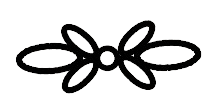
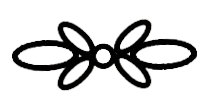
quicksave before adding the other pages

diff --git a/index.html b/index.html
@@ -5,18 +5,18 @@
     <head>
         <title> Katelyn Nguyen Personal Website </title> <!--this is what will be seen in the chrome tab's text-->
         <link rel="stylesheet" href="style_home.css">
-        <link rel="icon" type="image" href="Images/in-line-ornament_black_lines-removebg-preview.png">
+        <link rel="icon" type="image" class="website_icon" href="Images/in-line-ornament_black_lines-removebg-preview.png">
     </head>
     <header class="top_navbar_header">
         <nav class="top_navbar">
             <a href="index.html">Home</a>
-            <img class="top_navbar_dividers">
-            <a href="about.html">Projects</a>
-            <img class="top_navbar_dividers">
-            <a href="about.html">Qualifications</a>
-            <img class="top_navbar_dividers">
-            <a href="about.html">Service</a>
-            <img class="top_navbar_dividers">
+            <img class="navbar_dividers">
+            <a href="projects.html">Projects</a>
+            <img class="navbar_dividers">
+            <a href="qualifications.html">Qualifications</a>
+            <img class="navbar_dividers">
+            <a href="service.html">Service</a>
+            <img class="navbar_dividers">
             <a href="contact.html">Contact</a>
         </nav>
     </header>
@@ -30,7 +30,7 @@
                     <span class="slider round"></span>
                 </label>
             </div>
-            <img>
+            <img class="navbar_dividers">
             <!-- 
             <div id="middle_footer">
                 <a>Contact Information</a>
@@ -39,6 +39,9 @@
 
             <div id="right_footer">
                 <a>Share This Site!</a>
+                <img class="QR_code">
+                <a>Click to Copy Link</a>
+                <i class="copy_icon"></i>
                 <!-- <img> -->
             </div>
         <!-- </footer> -->
@@ -72,27 +75,47 @@
                 </p>
                 <p>
                     My name is Katelyn Nguyen. 
-                    I am a proud member of the fighting Texas Aggie class of 2025! 
+                    I am a proud member of the fighting <a target="_blank" href="https://www.tamu.edu/index.html">Texas Aggie</a> class of 2025! 
                     I am a computer engineering major pursuing minors in mathematics and cybersecurity.
                     Outside the classroom, I am involved in several organizations, including HKN-IEEE honor society, Vietnamese Student Association, Society of Asian Scientists and Engineers, and Aggie Women in Computer Science.
+                    I also love spending my free time dancing, playing Minecraft, and solving nonogram puzzles.
                 </p>
             </div>
             
+            <div class="quick_facts">
+                <h1>Quick Facts</h1>
+                <div class="quick_facts_column">
+                    <div class="quick_facts_left">
+                        <p>Texas A&M Univerisity</p>
+                        <p>College Station, Texas</p>
+                    </div>
+                    <div class="quick_facts_middle">
+                        <p>GPA: 3.865</p>
+                        <p>Graduation: May 2025</p>
+                    </div>
+                    <div class="quick_facts_right">
+                        <p>Major: BS Computer Engineering</p>
+                        <p>Minors: Mathematics, Cybersecurity</p>
+                    </div>
+                </div>
+            </div>
+
             <div class="why_comp_engr">
                 <h1>
                     Why Computer Engineering?
                 </h1>
         
                 <p>
-                    I decided to pursue a bachelor's degree in Computer Engineering because of the fascination with the inner workings of electronic devices my dad helped foster within me. 
+                    I decided to pursue a <a target="_blank" href="https://catalog.tamu.edu/undergraduate/engineering/electrical-computer/computer-engineering-bs/#programrequirementstext">Bachelor's degree in Computer Engineering</a> because of the fascination with the inner workings of electronic devices my dad helped foster within me. 
                     As a kid, I got to spend some of my dad’s extra vacation days messing around with junk from all over the house. 
-                    I loved dismantling old toys and electronics to hands-on experience with their components as well as learning how they functioned. 
-                    I was especially intrigued by the complexity and abstractness between hardware and code that powered these devices and I hope to continue to deepen my understanding by pursuing this field.
+                    I loved dismantling old toys and electronics to gain hands-on experience with their components as well as learn how they functioned. 
+                    I was especially intrigued by the complexity and abstractness that exists between hardware and code that powered these devices.
+                    I hope this craving to learn more about this field continues and I hope to deepen my understanding by completing a degree in this field.
                 </p>
                 <p>
-                    Before my junior year of high school, I had no idea there was a major that combined both the hardware and software aspects of technology I had grown fond of. 
-                    Once I learned that CPEN perfectly aligned with my interests, I’ve been very passionate about this degree. 
-                    This major allows me to merge my passion for technology with my desire to create and innovate. 
+                    Before my junior year of high school, I had no idea there was a major that combined both the hardware and software aspects of technology I had grown so fond of. 
+                    Once I learned that Computer Engineering perfectly aligned with my interests, I’ve been very passionate about this degree. 
+                    This major allows me to merge my fondness for technology with my desire to create and innovate. 
                     One day, I hope to work with a tech company and play a role in the creation and testing of devices like laptops to contribute to the constantly evolving field.
                 </p>
             </div>
@@ -102,10 +125,14 @@
                     My Career Goals
                 </h1>
                 <p>
-        
+                    With technology growing rapidly, I aspire to utilize my education and skills to become a key component in the industry.
+                    In the immediate future, my objective is to secure summer internships that will afford me genuine, hands-on technical experience. This is not solely about acquiring skills, but also an opportunity for self-discovery. I hope to truly identify my strengths, discern optimal work environments, and immerse myself in diverse cultures and cityscapes. 
+                    Looking ahead, my overarching goal is to achieve success in any reputable company. I aspire to be proud of the work I do and find joy in contributing to meaningful and impactful projects.
+                </p>
+                <p>
+                    For this upcoming summer specificially, my goal is to obtain a full-time internship in areas relating to either software or hardware.
                 </p>
             </div>
-            
         </body>
         <div class="eiffel_foreground">
             <img class="eiffel_image">

diff --git a/contact.html b/contact.html
@@ -3,35 +3,18 @@
     <header class="top_navbar_header">
         <nav class="top_navbar">
             <a href="index.html">Home</a>
-            <img class="top_navbar_dividers">
-            <a href="about.html">Projects</a>
-            <img class="top_navbar_dividers">
-            <a href="about.html">Qualifications</a>
-            <img class="top_navbar_dividers">
-            <a href="about.html">Service</a>
-            <img class="top_navbar_dividers">
+            <img class="navbar_dividers">
+            <a href="projects.html">Projects</a>
+            <img class="navbar_dividers">
+            <a href="qualifications.html">Qualifications</a>
+            <img class="navbar_dividers">
+            <a href="service.html">Service</a>
+            <img class="navbar_dividers">
             <a href="contact.html">Contact</a>
         </nav>
     </header>
     
-    <header class="bottom_navbar_header">
-        <!-- <footer class="bottom_navbar"> -->
-            <div id="left_footer">
-                <a>Theme Selector</a>
-                <img src="Images/title_ornament_symmetric.png">
-            </div>
-
-            <div id="middle_footer">
-                <a>Contact Information</a>
-                <img src="Images/title_ornament_symmetric.png">
-            </div>
-
-            <div id="right_footer">
-                <a>Share This Site!</a>
-                <img src="Images/title_ornament_symmetric.png">
-            </div>
-        <!-- </footer> -->
-    </header>
+    <!-- Bottom navbar go here -->
     <head>
     <meta charset="UTF-8">
     <meta name="viewport" content="width=device-width, initial-scale=1.0">
@@ -39,19 +22,33 @@
     <link rel="stylesheet" href="style_home.css">
     </head>
     <body class="contact_body">
-
-    <form class="contact_form" action="mailto:websitehost@example.com" method="post" enctype="text/plain">
-        <label class="contact_label" for="name">Your Name:</label>
-        <input class="contact_input" type="text" id="name" name="name" required>
-
-        <label class="contact_label" for="email">Your Email:</label>
-        <input class="contact_input" type="email" id="email" name="email" required>
-
-        <label class="contact_label" for="message">Your Message:</label>
-        <textarea class="contact_textarea" id="message" name="message" required></textarea>
-
-        <button class="contact_button" type="submit">Send Message</button>
-    </form>
+        <div class="contact_container">
+            <div class="column" id="social_column">
+                    <a href="https://www.facebook.com"><img src="facebook-icon.png" alt="Facebook"></a>
+                    <a href="https://www.instagram.com"><img src="instagram-icon.png" alt="Instagram"></a>
+                    <a href="https://www.linkedin.com"><img src="linkedin-icon.png" alt="LinkedIn"></a>
+                    <!-- Add more social media icons as needed -->
+                </div>
+                <div class="column" id="contact_form_column">
+                    <form class="contact_form" action="mailto:websitehost@example.com" method="post" enctype="text/plain">
+                        <label class="contact_label" for="name">Your Name:</label>
+                        <input class="contact_input" type="text" id="name" name="name" required>
+                
+                        <label class="contact_label" for="email">Your Email:</label>
+                        <input class="contact_input" type="email" id="email" name="email" required>
+                
+                        <label class="contact_label" for="message">Your Message:</label>
+                        <textarea class="contact_textarea" id="message" name="message" required></textarea>
+                
+                        <button class="contact_button" type="submit">Send Message</button>
+                    </form>
+                </div>
+                <div class="column" id="qr_code_column">
+                    <img src="qr-code.png" alt="QR Code">
+                    <p>Share this site!</p>
+                    <!-- You can generate a QR code for your website and replace "qr-code.png" -->
+                  </div>
+        </div>
 
     </body>
 </html>

diff --git a/style_home.css b/style_home.css
@@ -57,11 +57,16 @@ body {
     width: 100%;
     max-width: 100vw;
     overflow-x: hidden;
-    padding-right: 300px;
-    padding-left: 50px;
+    
 }
 
+body a {
+    color: white;
+}
 
+.website_icon {
+    transform: rotate(2deg);
+}
 
 
 
@@ -107,11 +112,12 @@ body {
     width: 100%;
 }
 
-.top_navbar_dividers {
+.navbar_dividers {
     content: url("Images/in-line-ornament.png");
-    width: 1%;
-    height: 1%;
+    width: 2%;
+    height: 2%;
     padding: 0%;
+    transform: rotate(1deg);
 }
 
 
@@ -140,6 +146,8 @@ body {
 .body_and_eiffel_foreground {
     display: flex;
     flex-direction: column;
+    padding-right: 400px;
+    padding-left: 50px;
 }
 
 .name {
@@ -249,7 +257,7 @@ background-position-y: flex; */
 } */
 
 
-.howdy, .why_comp_engr, .my_career_goals {
+.howdy, .quick_facts, .why_comp_engr, .my_career_goals {
     height: 100%;
     width: 100%;
     background-color: black;
@@ -260,6 +268,19 @@ background-position-y: flex; */
     margin-top: 20px;
     margin-bottom: 0px;
 }
+
+.quick_facts_column {
+    display: flex;
+    flex-direction: row;
+    /* flex-wrap: nowrap; */
+    /* flex-shrink: 0;
+    justify-content: center; */
+    flex-wrap: nowrap;
+    flex-basis: 0;
+    flex-grow: 1;
+}
+
+
 
 
 
@@ -274,8 +295,8 @@ background-position-y: flex; */
     justify-content: space-evenly;
     display: flex;
     align-content: center;
-    /*flex-direction: row;
-    z-index: 100; */
+    align-items: center;
+    z-index: 100;
 }
 
 .bottom_navbar_header a {
@@ -292,13 +313,6 @@ background-position-y: flex; */
     display: flex;
     flex-direction: row;
     font-weight: 100; */
-}
-
-.bottom_navbar_header img {
-    content: url("Images/in-line-ornament.png");
-    width: 5%;
-    height: 5%;
-    transform: rotate(1deg);
 }
 
 .left_footer, .right_footer {
@@ -341,7 +355,54 @@ background-position-y: flex; */
 
 
 /*#region Contact*/
-.contact_body {
+.contact_container {
+    margin-top: 80px;
+display: flex;
+justify-content: space-around;
+align-items: flex-start;
+padding: 20px;
+}
+
+.column {
+width: 30%;
+background-color: #fff;
+padding: 20px;
+box-shadow: 0 0 10px rgba(0, 0, 0, 0.1);
+border-radius: 8px;
+}
+
+#social_column {
+text-align: center;
+}
+
+#social_column a {
+display: block;
+margin-bottom: 10px;
+}
+
+#contact_form_column form {
+width: 100%;
+}
+
+#qr_code_column img {
+width: 100%;
+height: auto;
+margin-bottom: 10px;
+}
+
+button {
+background-color: #4caf50;
+color: #fff;
+padding: 10px 15px;
+border: none;
+border-radius: 4px;
+cursor: pointer;
+}
+
+button:hover {
+background-color: #45a049;
+}
+/* .contact_body {
     font-family: Arial, sans-serif;
     margin: 0;
     padding: 0;
@@ -350,15 +411,15 @@ background-position-y: flex; */
     align-items: center;
     height: 100vh;
     background-color: #f4f4f4;
-  }
+  } */
   
-.contact_form {
+/* .contact_form {
     width: 400px;
     background-color: #fff;
     padding: 20px;
     box-shadow: 0 0 10px rgba(0, 0, 0, 0.1);
     border-radius: 8px;
-  }
+  } */
   
 .contact_label {
     display: block;
